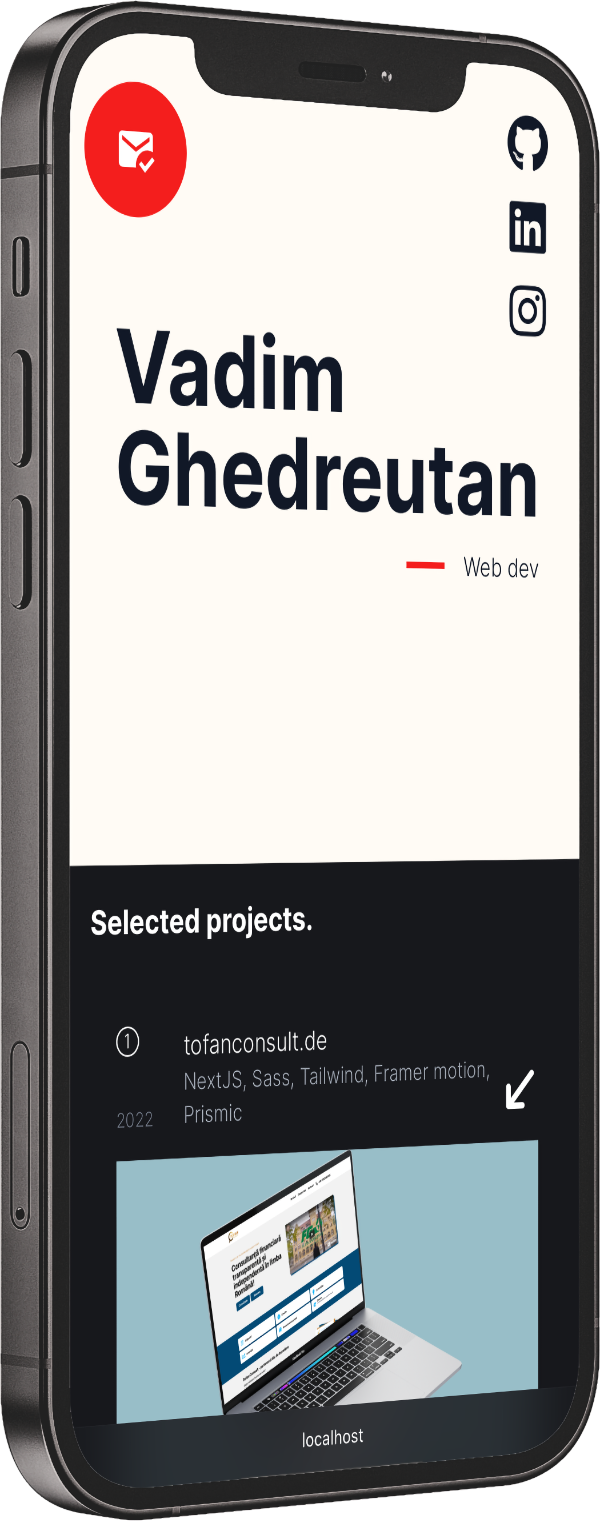
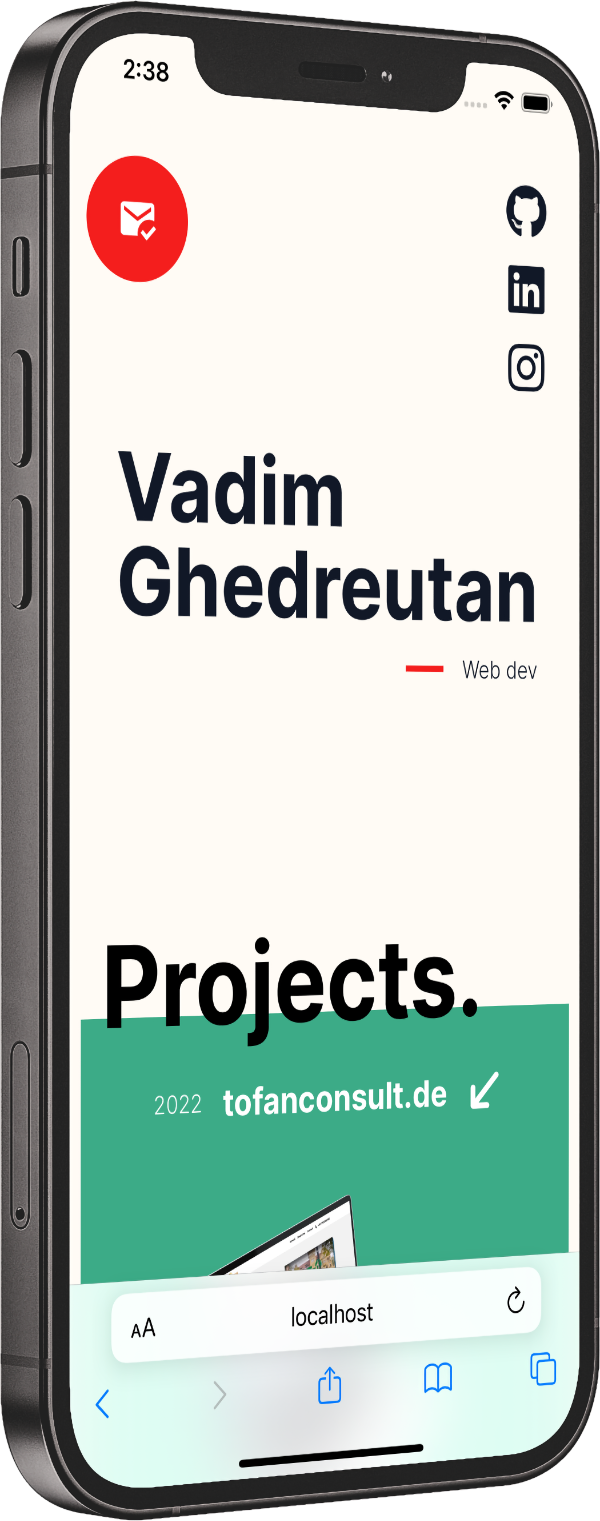
updating 1.2

diff --git a/pages/projects.tsx b/pages/projects.tsx
@@ -1,4 +1,5 @@
 import { ImArrowLeft2 } from 'react-icons/im'
+import { MdMarkEmailRead } from 'react-icons/md'
 import { motion } from 'framer-motion'
 import Link from 'next/link'
 import { GetStaticProps } from 'next'
@@ -37,34 +38,42 @@ export default function Projects({ posts }: PostsProps) {
         description="You need a website for your startup or business?"
       />
       <motion.section
-        className="min-h-screen bg-black"
+        className="min-h-screen text-gray-900"
         initial="hidden"
         animate="enter"
         exit="exit"
         variants={variants}
       >
-        <div className="mx-auto 3xl:max-w-7xl">
-          <div className="grid grid-cols-4">
-            <div className="sticky top-0 h-screen p-8">
-              <div className="w-full text-center">
-                <Link href="/">
-                  <ImArrowLeft2 className="h-12 w-12 cursor-pointer" />
-                </Link>
+        <div className="mx-auto max-w-7xl p-5">
+          <div className="relative flex items-center justify-between">
+            <div>
+              <div
+                className="bg-red-clr absolute top-0 left-0 flex h-20 w-20 items-center justify-center  
+        rounded-full sm:h-28 sm:w-28"
+              >
+                <MdMarkEmailRead className="h-8 w-8 cursor-pointer text-white" />
               </div>
             </div>
-            <div className="col-span-3">
-              <div className="grid md:grid-cols-2 xl:grid-cols-3">
-                {posts.map((post) => (
-                  <ProjectCard
-                    key={post._id}
-                    title={post.title}
-                    img={urlFor(post.mainImage).url()!}
-                    description={post.description}
-                    link={post.link}
-                  />
-                ))}
-              </div>
+            <div>
+              <Link href="/">
+                <ImArrowLeft2 className="h-12 w-12 cursor-pointer" />
+              </Link>
             </div>
+          </div>
+          <div className="my-12 w-full text-center">
+            <h1 className="text-6xl font-bold">Projects.</h1>
+          </div>
+
+          <div className="grid gap-2 sm:grid-cols-2 lg:grid-cols-3">
+            {posts.map((post) => (
+              <ProjectCard
+                key={post._id}
+                title={post.title}
+                img={urlFor(post.mainImage).url()!}
+                description={post.description}
+                link={post.link}
+              />
+            ))}
           </div>
         </div>
       </motion.section>

diff --git a/components/ProjectCard.tsx b/components/ProjectCard.tsx
@@ -7,15 +7,12 @@ interface ProjectCardProps {
 
 const ProjectCard = ({ title, img, description, link }: ProjectCardProps) => {
   return (
-    <a href={link} className="bg-[whitesmoke] p-1 sm:p-2">
-      <div className="card">
-        <img src={img} alt="" />
-        <div className="card-content">
-          <div className="card-title text-sm text-gray-500">{title}</div>
-          <div className="card-description truncate pt-1 text-xs text-gray-500 sm:text-sm">
-            {description}
-          </div>
-        </div>
+    <a href={link}>
+      <img src={img} alt="" className="border-[.8px] border-gray-900 p-1" />
+
+      <div className="py-3">
+        <h3 className="text-2xl">{title} - </h3>
+        <p>{description}</p>
       </div>
     </a>
   )
